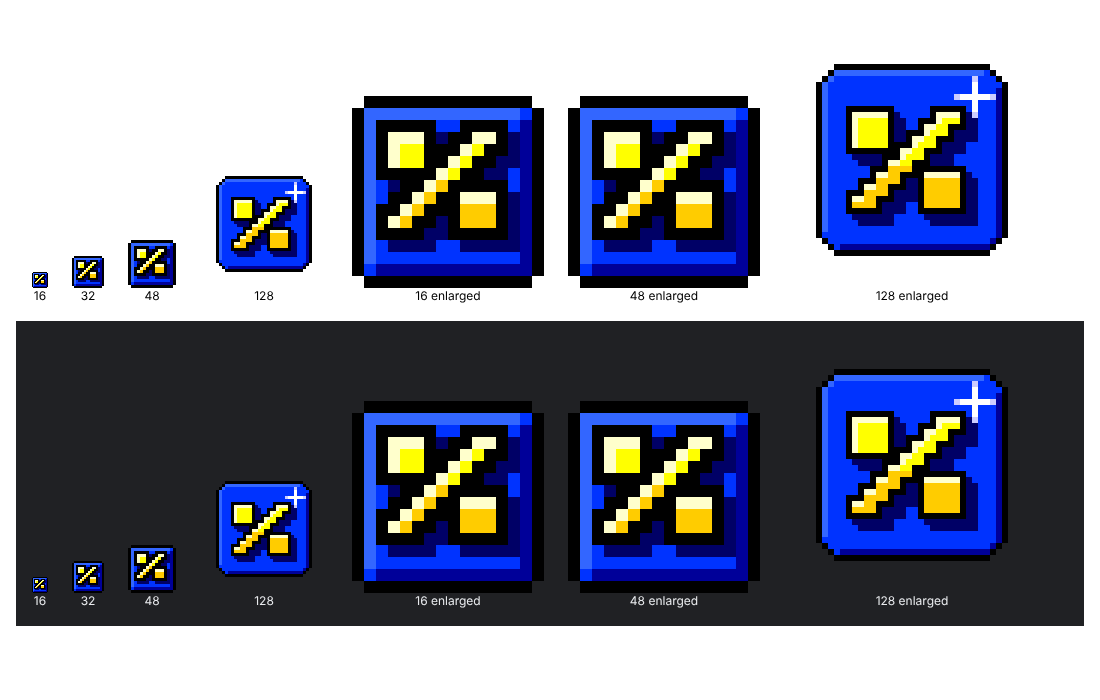
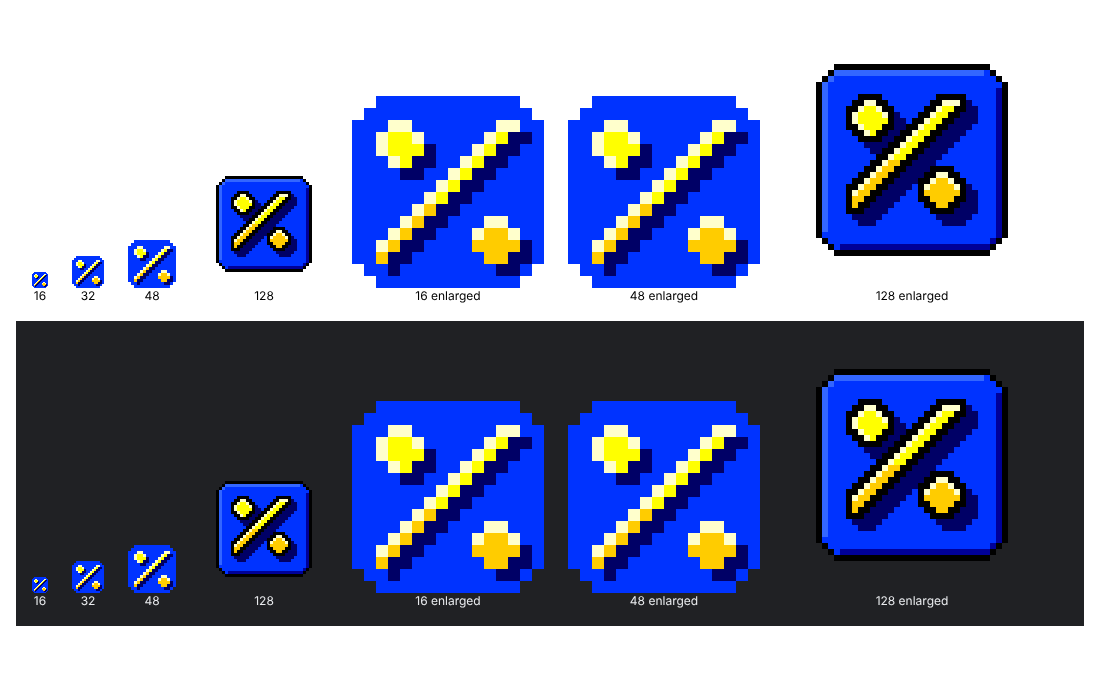
Pack as stills and looping GIFs; overlay demo tool (in progress)
Claude-Session: https://claude.ai/code/session_01NWuCfpnnkXbDHA2WA7GWBY

diff --git a/marketing/comps/gif-banner.js b/marketing/comps/gif-banner.js
@@ -92,7 +92,7 @@ const FORMATS = {
   // ---- Chrome Web Store images: the same advert, the same footer on the bottom edge ----
   // the marquee promo tile
   marquee: {
-    w: 1400, h: 560, P: 4, credit: 28,
+    w: 1400, h: 560, P: 4, credit: 28, creditX: 120,
     items: [
       { t: 'text', s: '30% OFF', f: `32px ${PS}`, x: 120, y: 6, st: 'head' },
       { t: 'text', s: 'EVERYTHING ON', f: `16px ${PS}`, x: 120, y: 47, st: 'body' },
@@ -100,7 +100,7 @@ const FORMATS = {
       { t: 'text', s: 'BLACK FRIDAY ONLY!', f: `700 16px ${SK}`, x: 120, y: 88, st: 'only' },
       { t: 'globe', x: 288, y: 56, d: 86 },
       { t: 'sticker', x: 257, y: 24, r: 19, s: '-30%', f: `8px ${PS}` },
-      { t: 'burst', x: 322, y: 95, r: 19, lines: ['NEW!'], f: `8px ${PS}` },
+      { t: 'burst', x: 324, y: 88, r: 20, lines: ['NEW!'], f: `8px ${PS}` },
       { t: 'sparkle', x: 10, y: 12, ph: 0 },
       { t: 'sparkle', x: 340, y: 10, ph: 1 },
       { t: 'marquee', h: 20, f: `8px ${PS}` },
@@ -115,7 +115,7 @@ const FORMATS = {
       { t: 'text', s: 'BLACK FRIDAY', f: `8px ${PS}`, x: 10, y: 86, align: 'l', st: 'onlyS' },
       { t: 'text', s: 'ONLY!', f: `8px ${PS}`, x: 10, y: 96, align: 'l', st: 'onlyS' },
       { t: 'globe', x: 166, y: 56, d: 80 },
-      { t: 'sticker', x: 136, y: 24, r: 18, s: '-30%', f: `8px ${PS}` },
+      { t: 'sticker', x: 138, y: 25, r: 20, s: '-30%', f: `8px ${PS}` },
       { t: 'marquee', h: 20, f: `8px ${PS}` },
     ],
   },
@@ -132,13 +132,11 @@ const FORMATS = {
       { t: 'sticker', x: 160, y: 32, r: 21, s: '-30%', f: `8px ${PS}` },
       { t: 'burst', x: 226, y: 112, r: 23, lines: ['HOT!'], f: `8px ${PS}` },
       { t: 'sparkle', x: 244, y: 12, ph: 1 },
-      { t: 'sparkle', x: 130, y: 22, ph: 0 },
       { t: 'marquee', h: 18, f: `8px ${PS}` },
     ],
   },
   // The vertical story advert. Phone apps cover the top ~240 and bottom ~340 stage px, so the
-  // artwork sits between them and the footer is lifted (lift: GIF px of flat blue under the
-  // marquee) to end at y = 1580, clear of the reply bar.
+  // artwork sits between them (y 250-1560); the footer stays on the bottom edge, as everywhere.
   '9x16': {
     w: 1080, h: 1920, P: 4, credit: 30,
     items: [
@@ -146,13 +144,13 @@ const FORMATS = {
       { t: 'text', s: 'EVERYTHING ON', f: `16px ${PS}`, x: 135, y: 113, st: 'body' },
       { t: 'text', s: 'THE INTERNET.', f: `16px ${PS}`, x: 135, y: 133, st: 'body' },
       { t: 'text', s: 'BLACK FRIDAY ONLY!', f: `700 16px ${SK}`, x: 135, y: 158, st: 'only' },
-      { t: 'globe', x: 98, y: 270, d: 124 },
-      { t: 'sticker', x: 151, y: 227, r: 26, s: '-30%', f: `8px ${PS}` },
-      { t: 'burst', x: 218, y: 274, r: 42, lines: ['WOW!'], f: `16px ${SK}`, bold: true },
+      { t: 'globe', x: 98, y: 296, d: 136 },
+      { t: 'sticker', x: 156, y: 249, r: 29, s: '-30%', f: `8px ${PS}` },
+      { t: 'burst', x: 222, y: 308, r: 40, lines: ['WOW!'], f: `16px ${SK}`, bold: true },
       { t: 'sparkle', x: 22, y: 72, ph: 0 },
       { t: 'sparkle', x: 252, y: 100, ph: 1 },
-      { t: 'sparkle', x: 24, y: 208, ph: 1 },
-      { t: 'marquee', h: 22, f: `8px ${PS}`, lift: 85 },
+      { t: 'sparkle', x: 22, y: 224, ph: 1 },
+      { t: 'marquee', h: 22, f: `8px ${PS}` },
     ],
   },
   // The full-page horizontal advert: the message on the left, the globe and burst on the right.
@@ -415,7 +413,7 @@ function buildMarquee(it) {
   const speed = 60; // GIF pixels a second, rounded to a whole number of passes a loop
   const passes = Math.max(1, Math.round((speed * DURATION) / L));
   const under = q.get('edge') === 'serrated' && format !== 'banner-v' ? 4 : 0; // room for teeth (TOOTH.depth)
-  return { strip, frame, L, passes, y: H - it.h - under - (it.lift || 0), h: it.h, under };
+  return { strip, frame, L, passes, y: H - it.h - under, h: it.h, under };
 }
 function drawMarquee(t) {
   const M = marquee;
@@ -565,6 +563,8 @@ function setTime(t) {
 credit.style.bottom = (H - marquee.y + 3) * P - (H * P - F.h) + 'px';
 credit.style.fontSize = F.credit + 'px';
 if (format === 'banner-h' || F.creditLeft) credit.classList.add('left');
+// store tiles: centre the credit under the text column (creditX, GIF px) rather than the whole tile
+if (F.creditX) Object.assign(credit.style, { right: 'auto', left: F.creditX * P + 'px', transform: 'translateX(-50%)', whiteSpace: 'nowrap' });
 // What shows through the teeth: the page, in the live banner; a flat colour in a render.
 if (EDGE || TICK_SERR) { stage.style.background = OUTSIDE; document.body.style.background = OUTSIDE; }
 

diff --git a/marketing/store/icon-gif.html b/marketing/store/icon-gif.html
@@ -6,7 +6,7 @@
 <style>
   /* The extension's icon in the GIF banner's pixel language: flat web blue (#0033ff) in a
      black-keylined, bevelled 1997 button, with the banner's gold bevelled "%" (cream highlight,
-     gold lower band, black keyline, hard navy extrusion) and, on the big one, a pixel sparkle.
+     gold lower band, hard navy extrusion; black keyline on the big one).
      Drawn as hand-placed pixels and scaled by whole numbers only, so every size is crisp.
        ?size=16 | 32 | 48   the 16-pixel design at 1x, 2x, 3x, filling the square
        ?size=128            the 32-pixel design at 3x: 96 px of artwork, 16 px transparent padding
@@ -26,17 +26,22 @@ const C = {
   pale: '#ccccff', yellow: '#ffff00', cream: '#ffffcc', gold: '#ffcc00',
 };
 
-// The "%": two 3x3 dots and a two-pixel diagonal, 9 x 8.
-const PCT = [
-  '###....##',
-  '###...##.',
-  '###..##..',
-  '....##...',
-  '...##....',
-  '..##..###',
-  '.##...###',
-  '##....###',
-];
+// The "%", drawn to the grid: n x n, two round-cornered d x d dots in opposite corners and an
+// s-pixel stair-step diagonal between them.
+function pct(n, d, s) {
+  const rows = [];
+  for (let y = 0; y < n; y++) {
+    let r = '';
+    for (let x = 0; x < n; x++) {
+      const dot = (ox, oy) => { const dx = x - ox, dy = y - oy; if (dx < 0 || dy < 0 || dx >= d || dy >= d) return false;
+        const cx = Math.min(dx, d - 1 - dx), cy = Math.min(dy, d - 1 - dy); return cx + cy >= (d >= 6 ? 2 : 1) || d < 4; };
+      const diag = x + y > n - 1 - s && x + y <= n - 1;
+      r += dot(0, 0) || dot(n - d, n - d) || diag ? '#' : '.';
+    }
+    rows.push(r);
+  }
+  return rows;
+}
 const mask = (rows, k = 1) => ({ w: rows[0].length * k, h: rows.length * k, at(x, y) { return x >= 0 && y >= 0 && x < this.w && y < this.h && rows[Math.floor(y / k)][Math.floor(x / k)] === '#'; } });
 
 // A pixel grid: g[y][x] = colour name or null.
@@ -80,22 +85,21 @@ function stamp(g, m, ox, oy, line, ext) {
   return { W, H };
 }
 
-// The 16-pixel design (16, 32, 48): % with a one-pixel keyline and extrusion, as large as it goes.
+// The 16-pixel design (16, 32, 48): a flat blue tile and a 12-pixel % with a one-pixel navy
+// extrusion; no keylines at this size, so the shape stays open.
 function design16() {
-  const g = button(16, 1);
-  const m = mask(PCT);
-  stamp(g, m, 2, 2, 1, 1); // 12 x 11
+  const g = grid(16);
+  for (let y = 0; y < 16; y++) for (let x = 0; x < 16; x++) {
+    const dx = Math.min(x, 15 - x), dy = Math.min(y, 15 - y);
+    if (dx + dy >= 2) g[y][x] = 'blue';
+  }
+  stamp(g, mask(pct(12, 4, 2)), 2, 2, 0, 1); // 13 x 13 -> x 2..14
   return g;
 }
-// The 32-pixel design (128 at 3x): the % at 2x with a deeper extrusion, and one pixel sparkle.
+// The 32-pixel design (128 at 3x): the bevelled button and a larger % with a keyline and deeper extrusion.
 function design32() {
   const g = button(32, 3);
-  const m = mask(PCT, 2); // 18 x 16
-  stamp(g, m, 5, 7, 1, 2); // 22 x 20 -> x 5..26, y 7..26
-  // sparkle, top right: a little four-point glint
-  const sp = [[26, 3, 'white'], [26, 4, 'white'], [26, 5, 'white'], [26, 6, 'white'], [26, 7, 'white'],
-    [24, 5, 'white'], [25, 5, 'white'], [27, 5, 'white'], [28, 5, 'white'], [26, 2, 'pale'], [26, 8, 'pale'], [23, 5, 'pale'], [29, 5, 'pale']];
-  for (const [x, y, c] of sp) if (g[y][x] && g[y][x] !== 'black') g[y][x] = c;
+  stamp(g, mask(pct(18, 6, 3)), 5, 5, 1, 2); // 22 x 22 -> x 5..26, y 5..26
   return g;
 }
 
